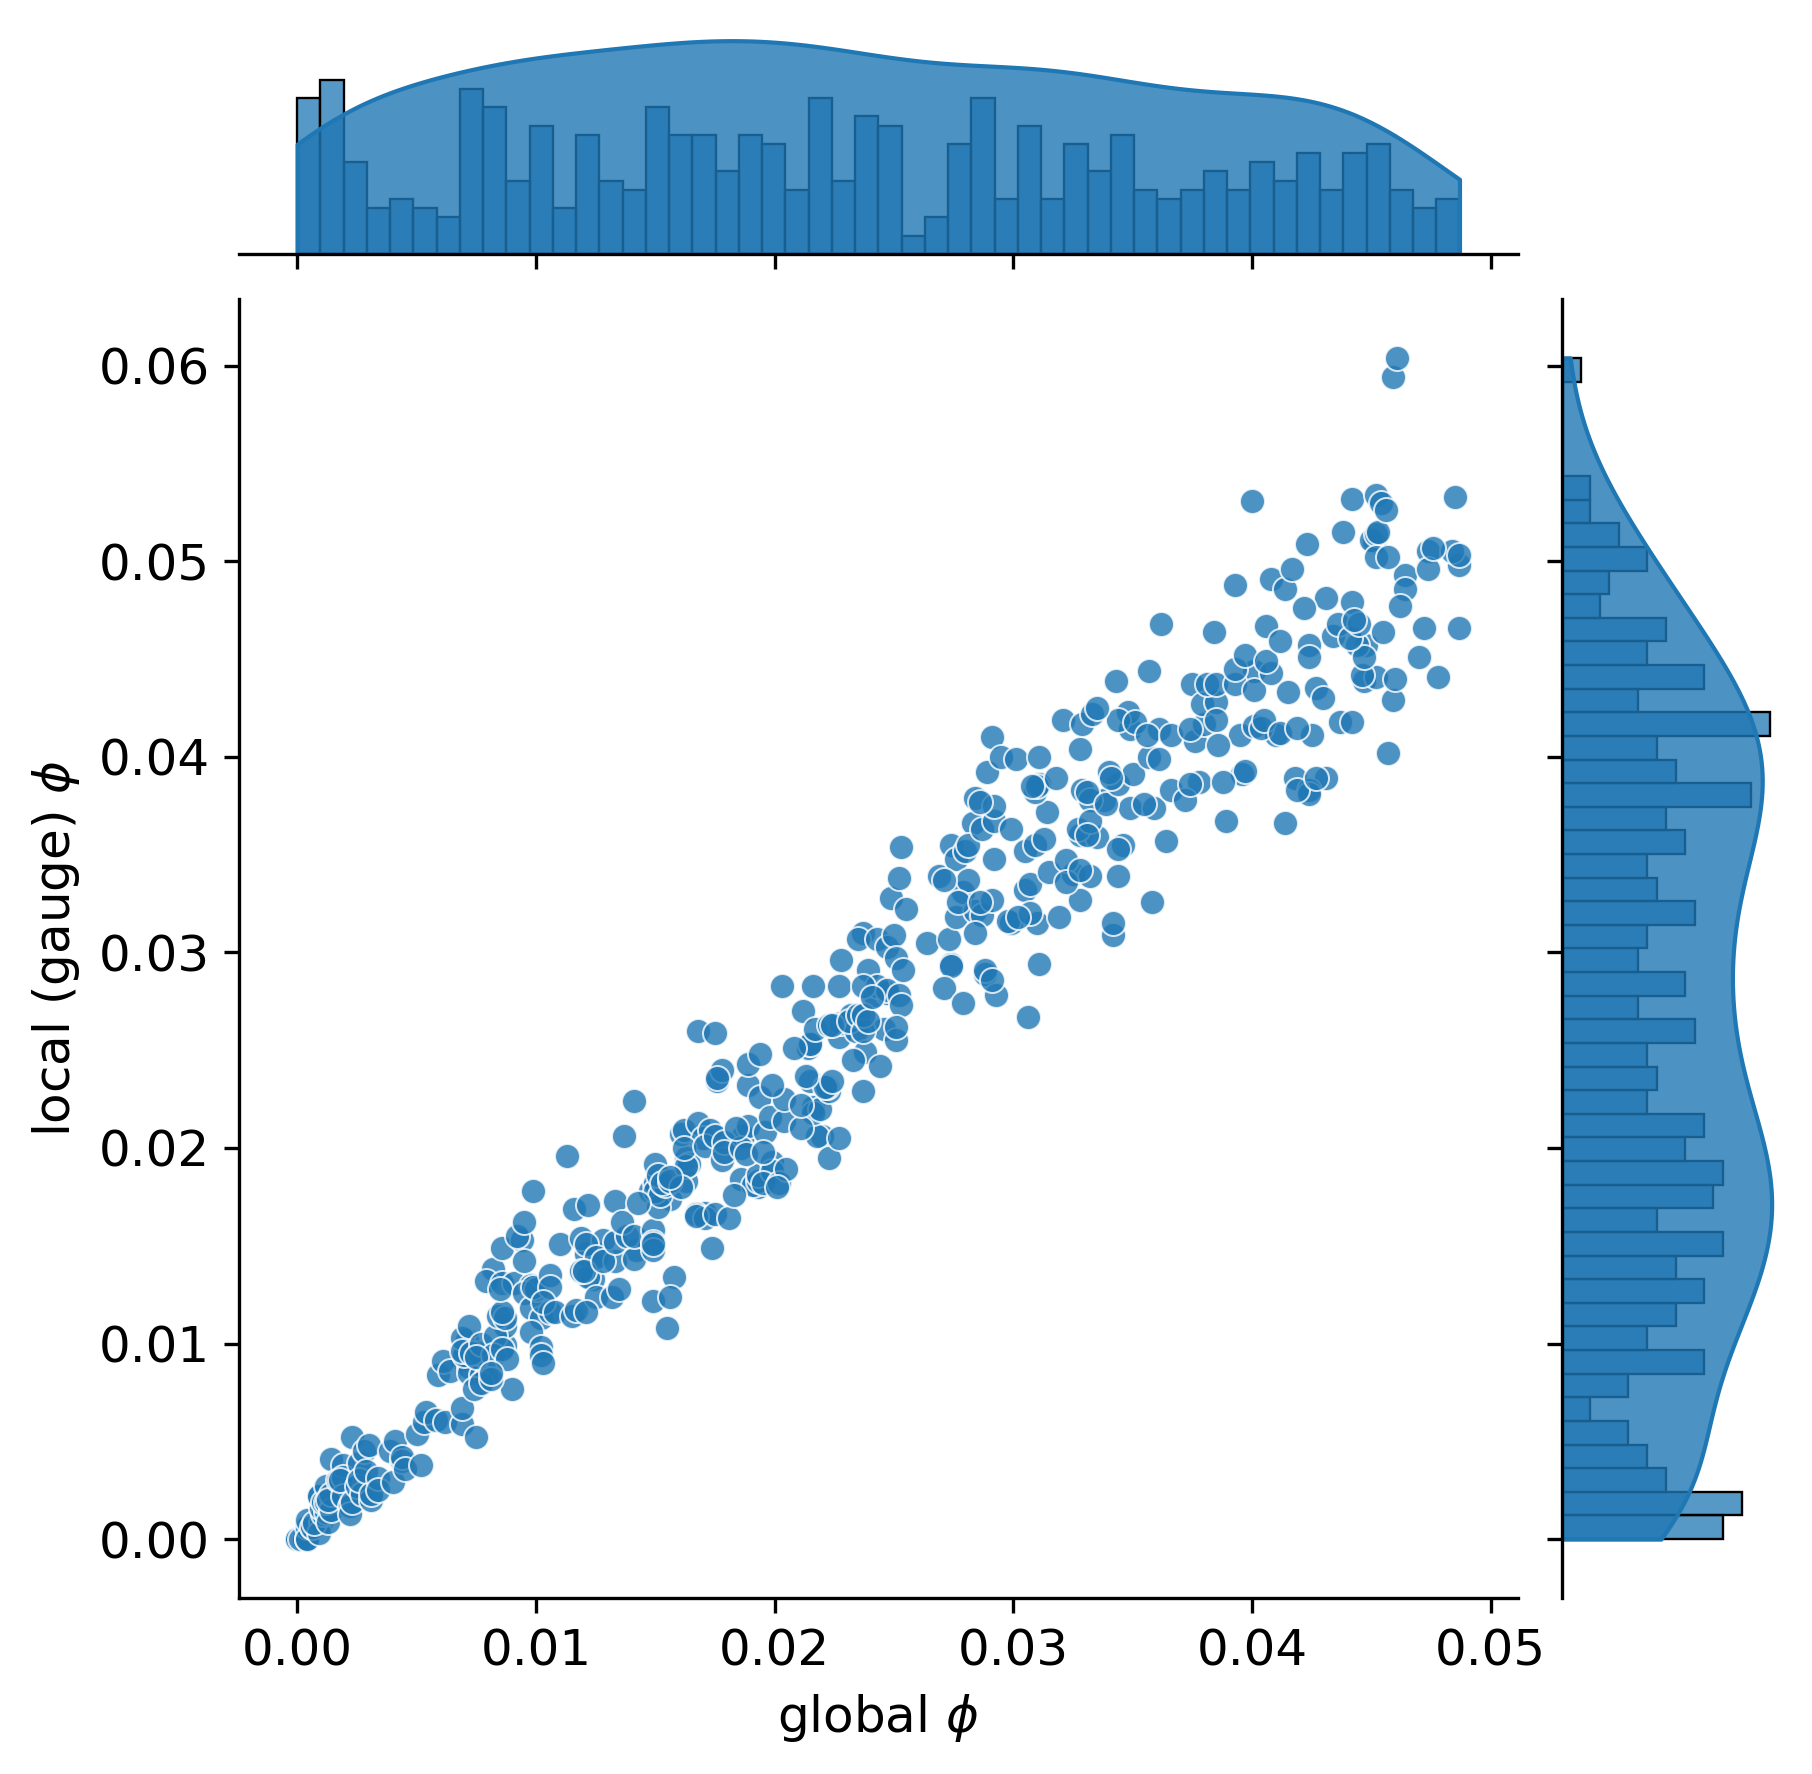
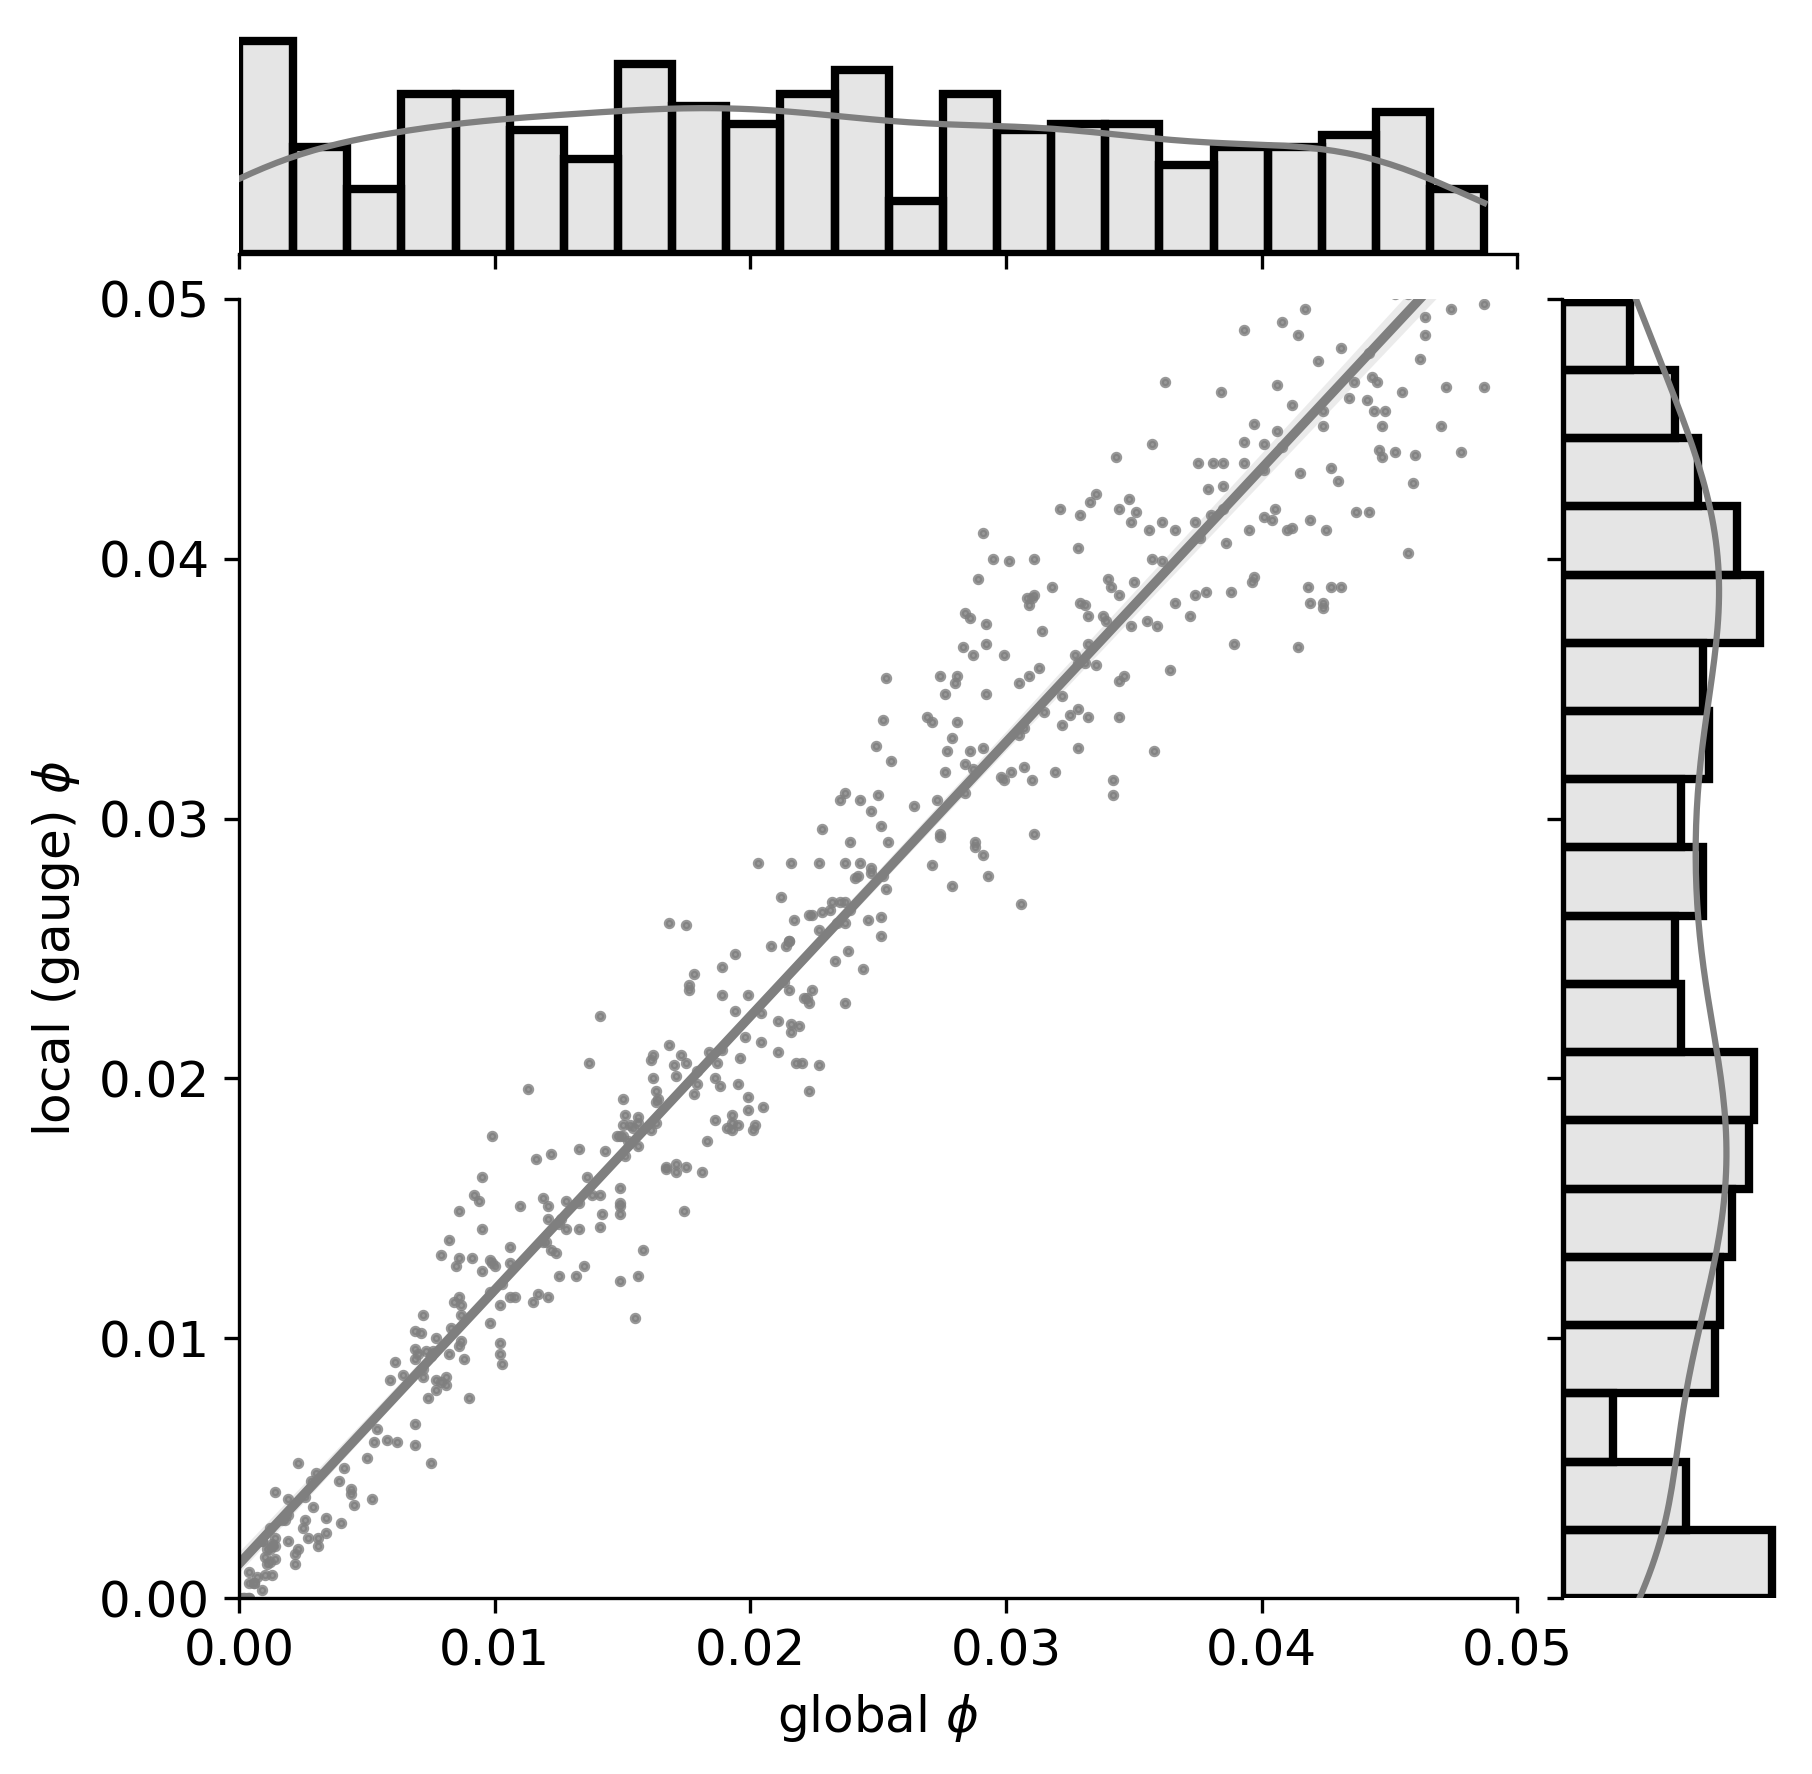
polish parity plot of porosity

diff --git a/test_CBayes_tensileDogbone/analysis/train/checkPorosity.py b/test_CBayes_tensileDogbone/analysis/train/checkPorosity.py
@@ -53,22 +53,34 @@ plt.savefig('porosities.png', dpi=300, facecolor='w', edgecolor='w', orientation
 mpl.rcParams['xtick.labelsize'] = 12
 mpl.rcParams['ytick.labelsize'] = 12
 plt.figure(num=None, figsize=(168, 100), dpi=300, facecolor='w', edgecolor='k')
-# sns.jointplot(data=df, x="global", y="local", kind='kde',
-#     marginal_kws={
-#     'fill': True,    # Fill the area under the KDE curve
-#     'color': 'purple',  # Set the color of the KDE curve
-#     'alpha': 0.6,    # Set the transparency of the filled area
-#     'linewidth': 2   # Set the line width of the KDE curve)
-#     })
+g = sns.jointplot(data=df, x="global", y="local", kind='reg', 
+    scatter_kws={'s': 3},
+    joint_kws={'color': 'tab:gray'},
+    marginal_kws={
+    'bins': 23,
+    'fill': True,    # Fill the area under the KDE curve
+    'color': 'tab:gray',  # Set the color of the KDE curve
+    'alpha': 0.2,    # Set the transparency of the filled area
+    'linewidth': 2   # Set the line width of the KDE curve)
+    },
+    )
+
 # g = sns.jointplot(data=df, x="global", y="local", kind='scatter', color='blue')
-g = sns.jointplot(data=df, x="global", y="local", kind='scatter', color='tab:blue', 
-    alpha=0.8,
-    marginal_kws=dict(bins=50, fill=True))
-    # marginal_kws={'fill': True, 'color': 'blue', 'alpha': 0.6, 'linewidth': 2})
-g.plot_marginals(sns.kdeplot, fill=True, color='tab:blue', alpha=0.8, linewidth=1, cut=0)
+# g = sns.jointplot(data=df, x="global", y="local", kind='scatter', color='tab:blue', 
+#     alpha=0.8,
+#     marginal_kws=dict(bins=50, fill=True)
+#     )
+#     # marginal_kws={'fill': True, 'color': 'blue', 'alpha': 0.6, 'linewidth': 2})
+# g.plot_marginals(sns.kdeplot, fill=True, color='tab:blue', alpha=0.8, linewidth=1, cut=0)
+
+# g = sns.jointplot(
+#     data=df, x="global", y="local", kind='resid', color='tab:blue', alpha=0.8
+# )
+
+# g.plot_marginals(sns.kdeplot, fill=True, color='tab:blue', alpha=0.8, linewidth=1, cut=0)
+
+
 # sns.kdeplot(data=df, x="global", y="local", ax=g.ax_joint, color='blue', fill=True, alpha=0.8, linewidth=1)
-
-
 
 # sns.jointplot(data=df, x="global", y="local", kind='scatter', 
 #     marginal_kind='kde',
@@ -80,4 +92,7 @@ g.plot_marginals(sns.kdeplot, fill=True, color='tab:blue', alpha=0.8, linewidth=
 #     })
 plt.xlabel(r'global $\phi$', fontsize=12)
 plt.ylabel(r'local (gauge) $\phi$', fontsize=12)
+plt.xlim(left=0,right=0.05)
+plt.ylim(bottom=0,top=0.05)
 plt.savefig('JointplotPorosities.png', dpi=300, facecolor='w', edgecolor='w', orientation='portrait', format=None, transparent=False, bbox_inches='tight', pad_inches=0.1, metadata=None)
+

diff --git a/test_CBayes_tensileDogbone/analysis/test/checkPorosity.py b/test_CBayes_tensileDogbone/analysis/test/checkPorosity.py
@@ -49,8 +49,8 @@ plt.xlabel(r'global $\phi$', fontsize=24)
 plt.ylabel(r'local (gauge) $\phi$', fontsize=24)
 plt.title(r'QoI porosity $\phi$ measured globally and locally', fontsize=24)
 # plt.axis('equal')
-plt.xlim(left=0,right=0.06)
-plt.ylim(bottom=0,top=0.06)
+plt.xlim(left=0,right=0.05)
+plt.ylim(bottom=0,top=0.05)
 # plt.show()
 plt.savefig('porosities.png', dpi=300, facecolor='w', edgecolor='w', orientation='portrait', format=None, transparent=False, bbox_inches='tight', pad_inches=0.1, metadata=None)
 
@@ -83,4 +83,6 @@ sns.jointplot(data=df, x="global", y="local", hue=r'avg $\phi$',
 #     })
 plt.xlabel(r'global $\phi$', fontsize=12)
 plt.ylabel(r'local (gauge) $\phi$', fontsize=12)
+plt.xlim(left=0,right=0.05)
+plt.ylim(bottom=0,top=0.05)
 plt.savefig('JointplotPorosities.png', dpi=300, facecolor='w', edgecolor='w', orientation='portrait', format=None, transparent=False, bbox_inches='tight', pad_inches=0.1, metadata=None)
